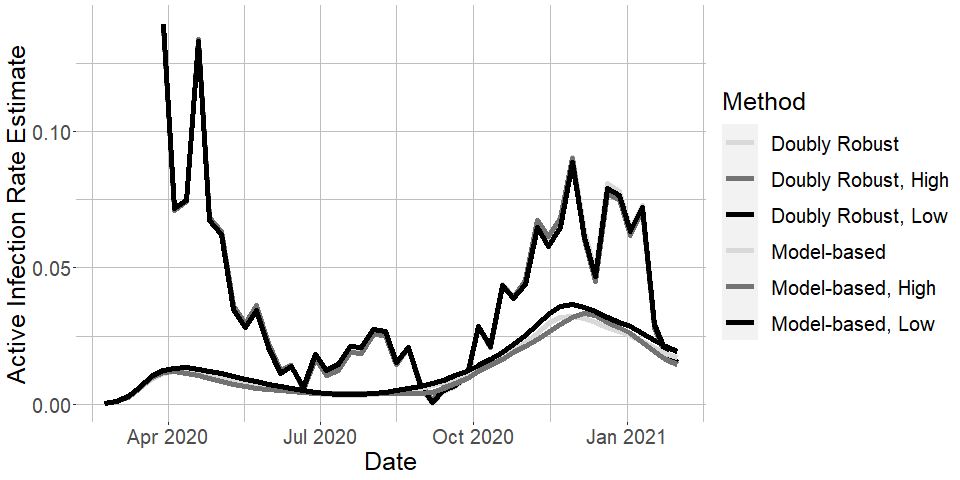
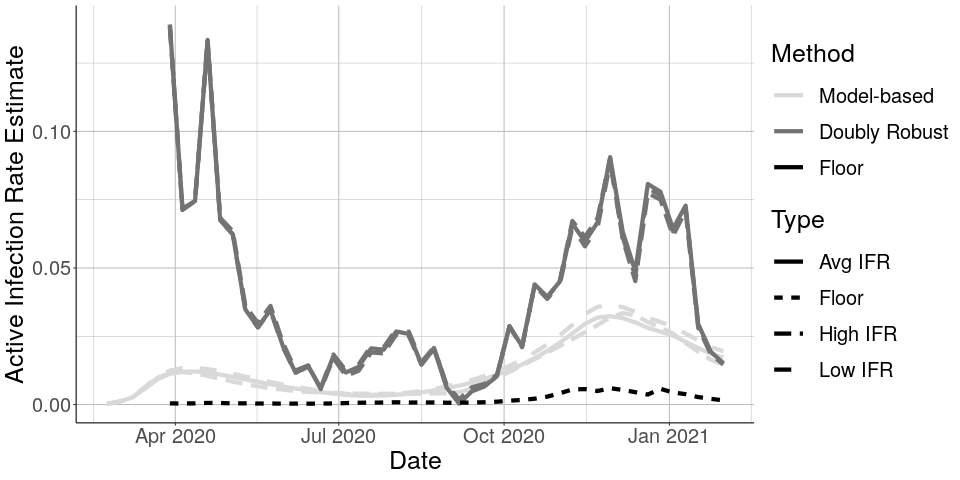
Updated floor and figures, all set now

diff --git a/write-up/letters/response-ref-1-v1.tex b/write-up/letters/response-ref-1-v1.tex
@@ -86,7 +86,7 @@ We have added a sensitivity analysis in Section K of the supplementary materials
 \item {\it On the plots that show the active infection rate estimates, perhaps including a line that is the case counts divided by the population as a floor would be worthwhile (at least in the supplement) to demonstrate that the model-based estimates are at least above this.}
 
 \vspace{5mm}
-We have added the floor of weekly case counts divided by population size to the figure of active infection rate estimates.  We interpret ``case counts'' in the referee comment above as ``recent case counts'' so that the floor calculation is relevant for estimating the active infection rate.
+We have added the floor of weekly case counts divided by population size to Figure 11 in the supplementary materials.  We interpret ``case counts'' in the referee comment above as ``weekly case counts'' so that the floor calculation is relevant for estimating the active infection rate.  Note all estimates are above the floor with the doubly robust being closest to the floor in September.
 \vspace{5mm}
 
 \item {\it I found the grey hard to differentiate for the figures that have more than two categories – perhaps varying the shapes would help if trying to keep these grey-scale?}
